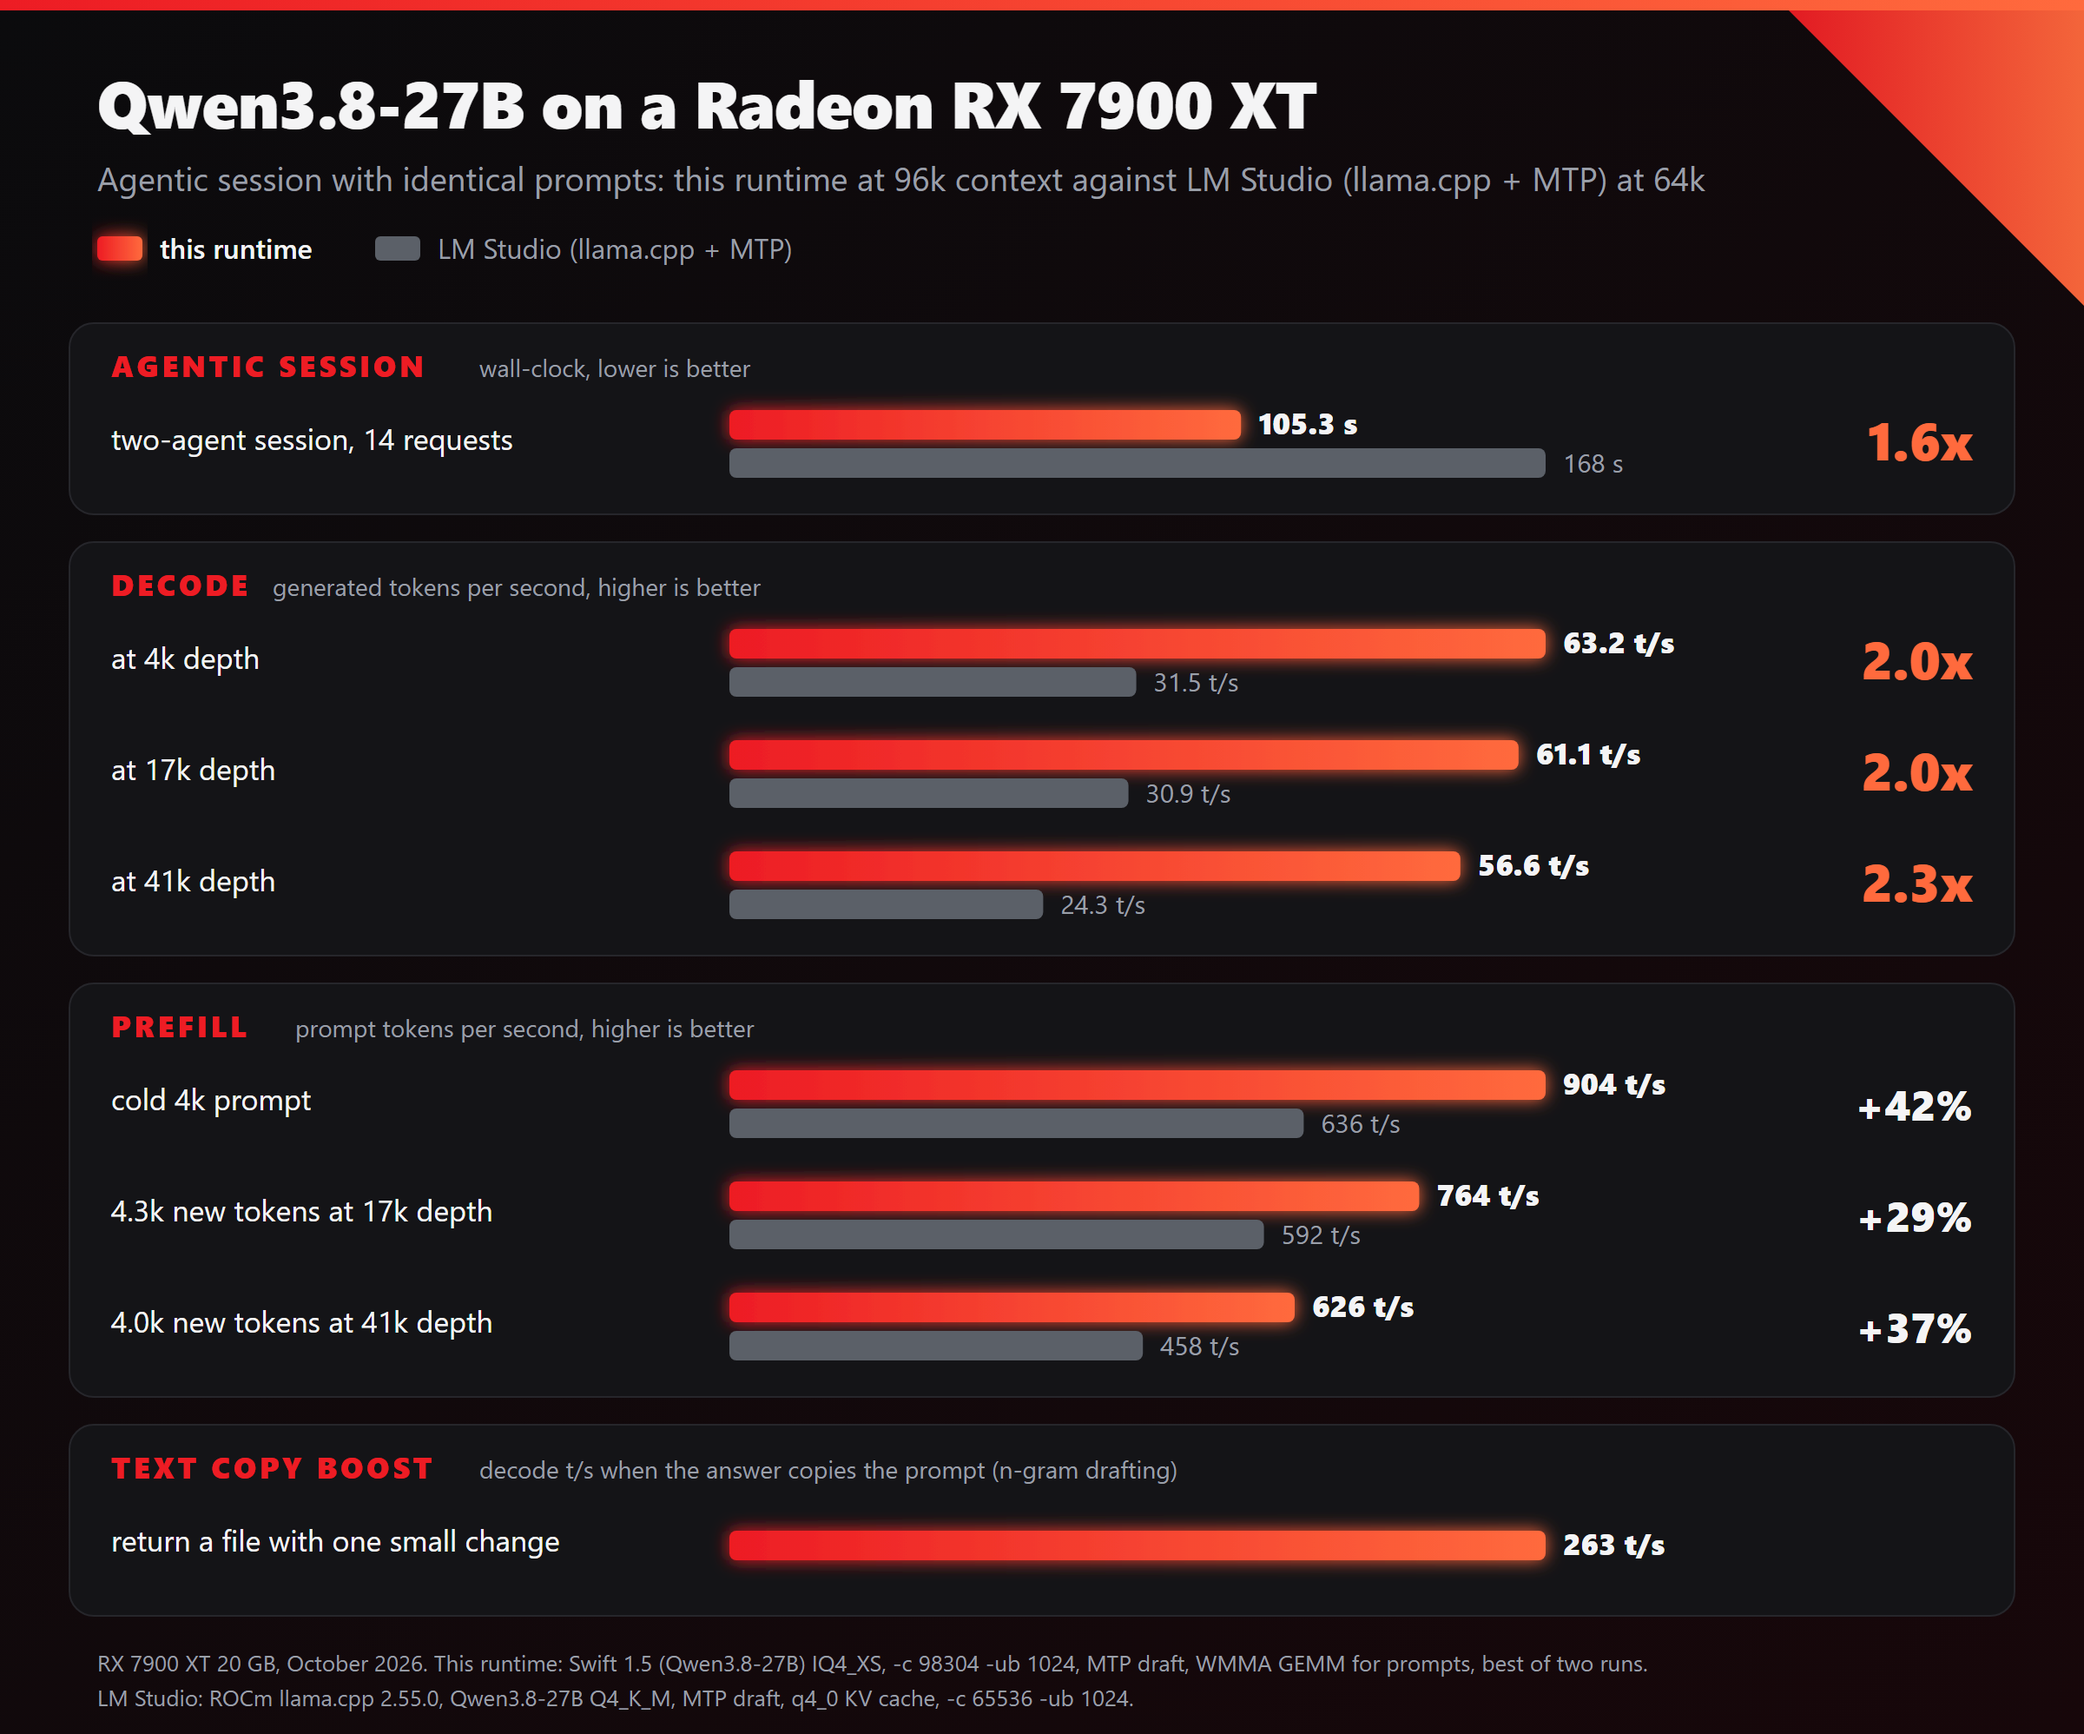
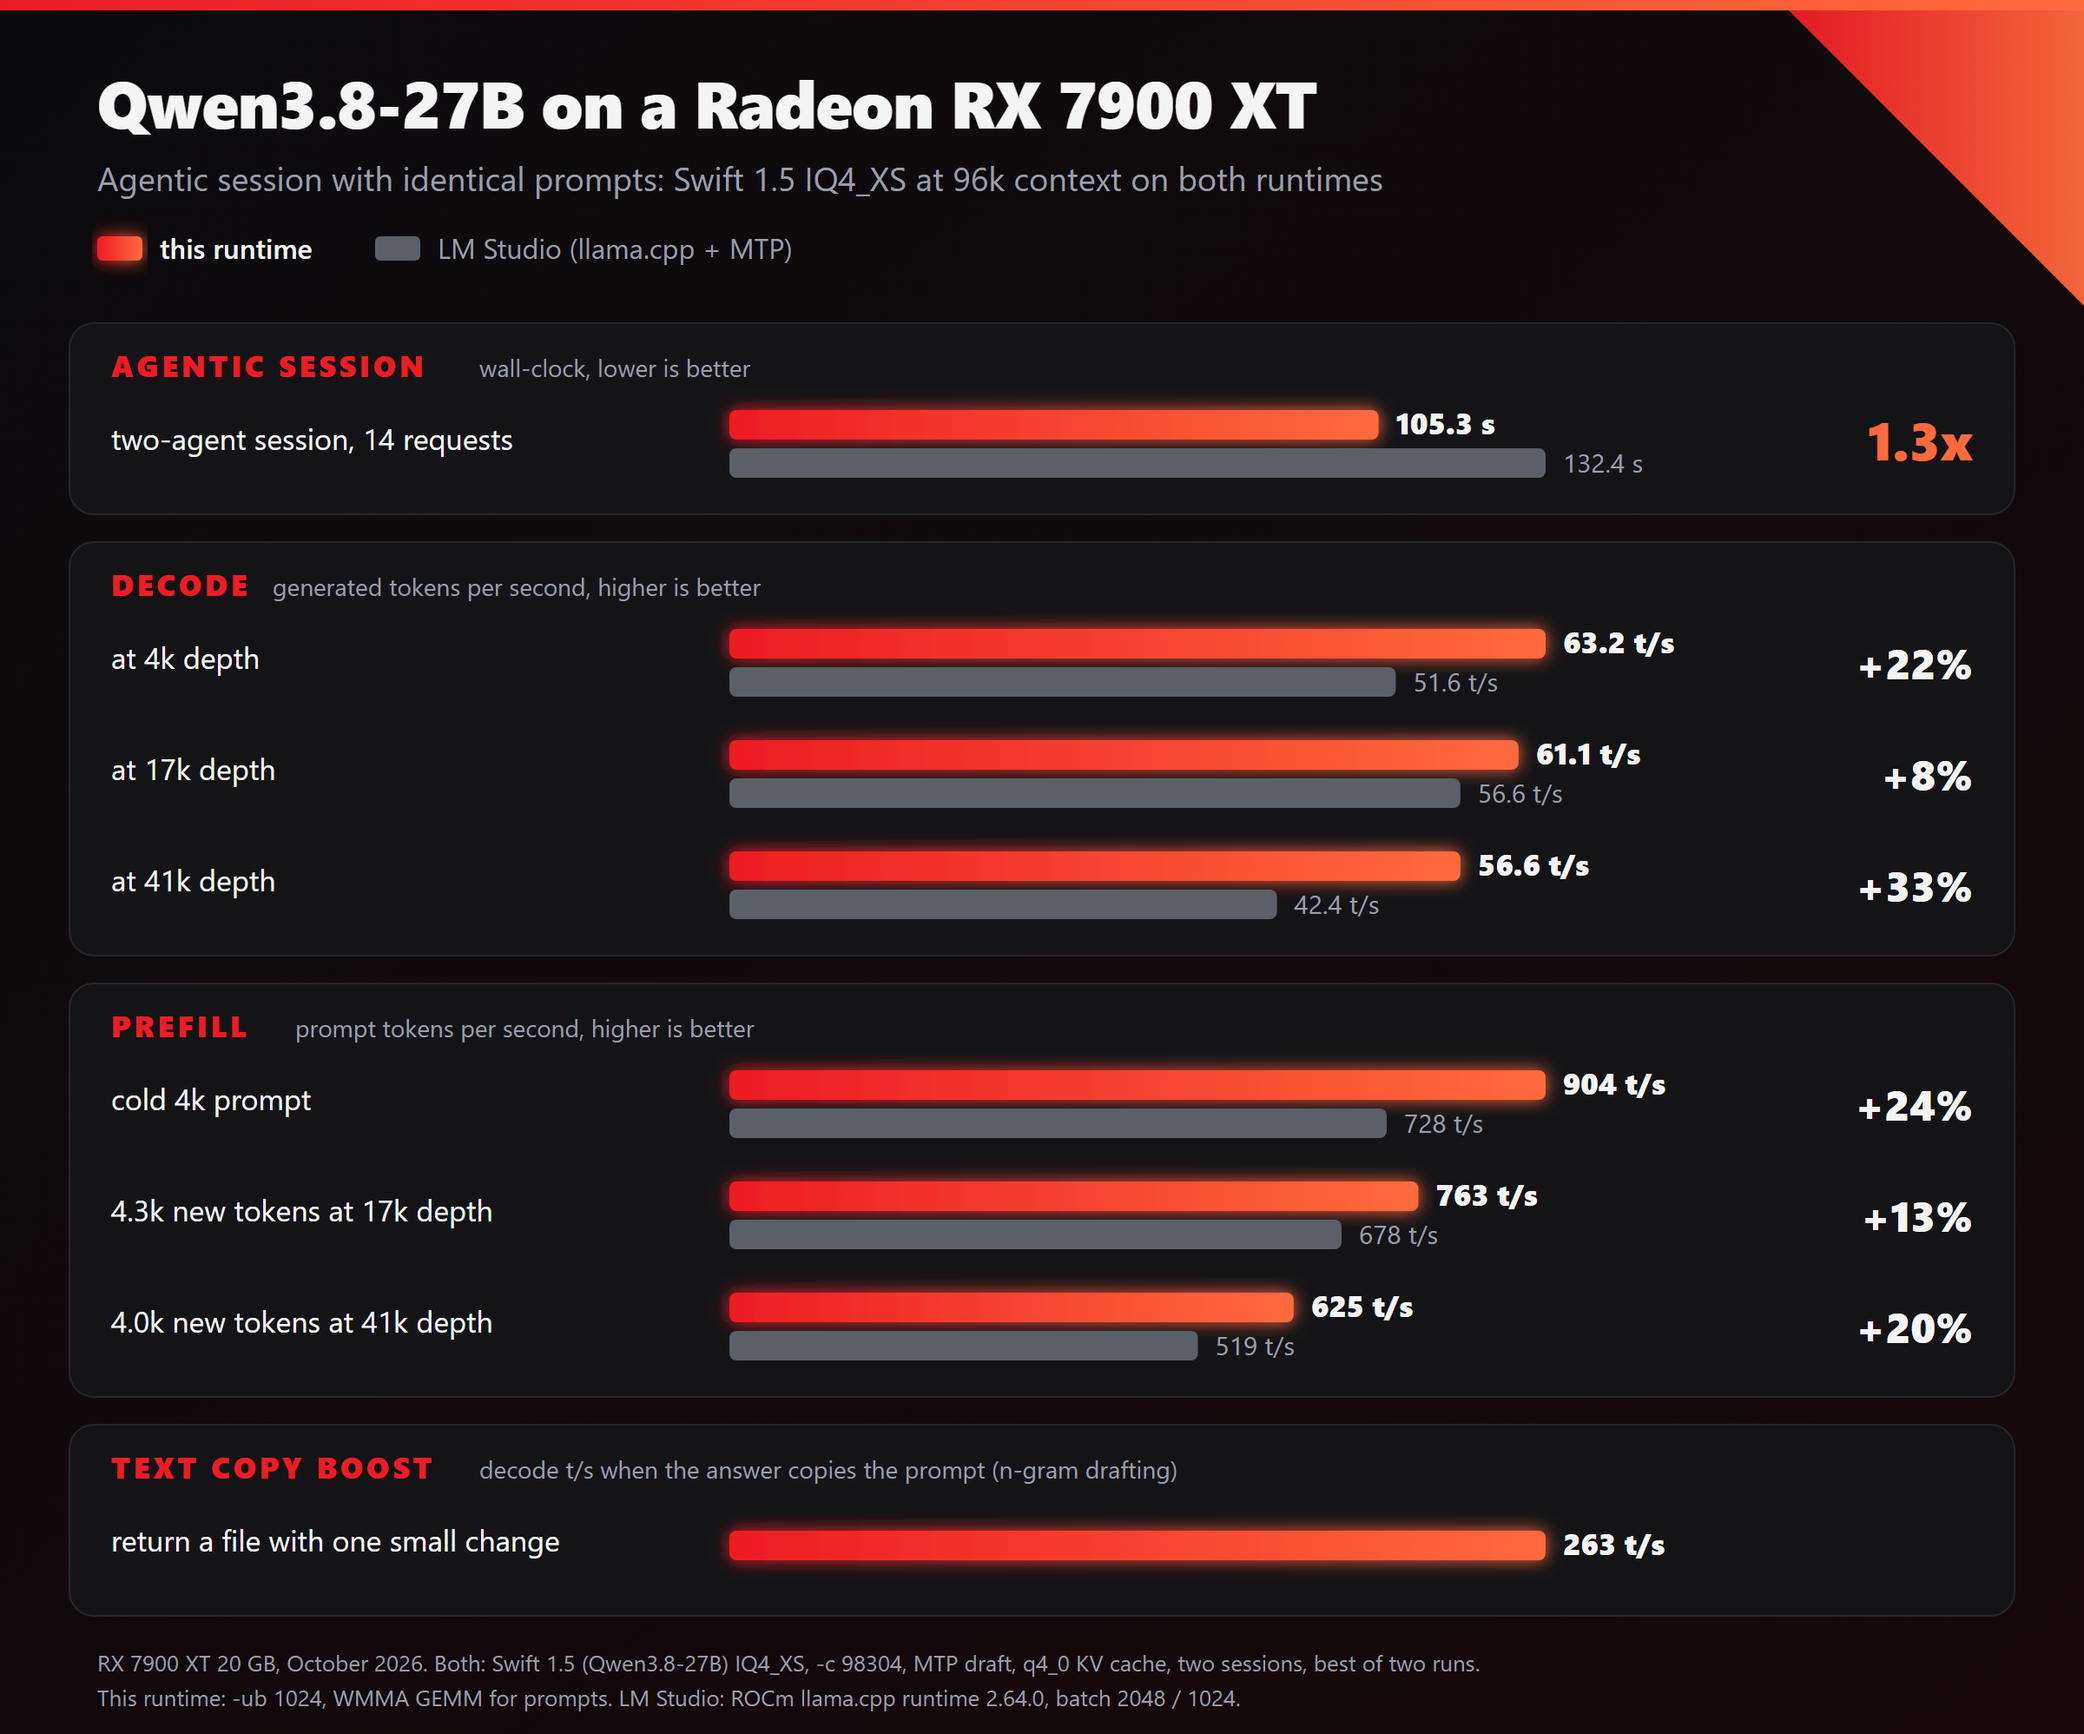
README: LM Studio comparison on the same model, quant and context; table of the four quants
LM Studio now runs what this runtime runs: Swift 1.5 IQ4_XS at 96k with MTP drafting (its ROCm runtime 2.64.0), the
better of two sessions each, prefill counted the same way for both: 132 s against 105 s for the scripted two-agent
session. The chart and the Speed table show these numbers; the October comparison against a different quant at 64k
is gone. A new table lists the session for each quant tested on both runtimes, Q4_K_M at 64k and -ub 512.

diff --git a/README.md b/README.md
@@ -11,9 +11,9 @@ FP4/FP6 weight formats) and [llama.cpp](https://github.com/ggml-org/llama.cpp).
 
 ## Highlights
 
-- **Faster agent loops than LM Studio on the same card.** A scripted two-agent
-  session finishes in 105 s instead of 168 s, with twice the decode speed.
-  [Numbers](#speed)
+- **Faster agent loops than LM Studio on the same card.** With the same model,
+  quant and context, a scripted two-agent session finishes in 105 s instead of
+  132 s. [Numbers](#speed)
 
 - **Multi-token prediction.** The model's own MTP head drafts tokens ahead: up
   to 54 t/s on prose and 88 t/s on code. When an answer repeats text from the
@@ -61,27 +61,44 @@ been measured on an XTX.
 
 ![Speed against LM Studio (llama.cpp + MTP) on an RX 7900 XT](media/speed-vs-lmstudio.svg)
 
-Against stock llama.cpp on the same card: one scripted two-agent session with
-identical prompts (14 requests; an orchestrator grows from 4k to 41k tokens, a
-10k-token worker is called twice in between):
+Against LM Studio on the same card, with the same model, quant and context: one
+scripted two-agent session with identical prompts (14 requests; an orchestrator
+grows from 4k to 41k tokens, a 10k-token worker is called twice in between):
 
-| | stock llama.cpp | stock + MTP draft | this runtime |
-|---|---:|---:|---:|
-| **the session, wall-clock** | **1,065 s** | **168 s** | **105 s** |
-| prefill t/s, cold 4k prompt | 174 | 636 | 904 |
-| prefill t/s, 4.3k new tokens at 17k depth | 67 | 592 | 764 |
-| prefill t/s, 4.0k new tokens at 41k depth | 32 | 458 | 626 |
-| decode t/s at 4k depth | 32.3 | 31.5 | 63.2 |
-| decode t/s at 17k depth | 17.8 | 30.9 | 61.1 |
-| decode t/s at 41k depth | 10.6 | 24.3 | 56.6 |
-| decode t/s, text copy boost: code edit that copies the prompt | | | 263 |
+| | LM Studio + MTP draft | this runtime |
+|---|---:|---:|
+| **the session, wall-clock** | **132 s** | **105 s** |
+| prefill t/s, cold 4k prompt | 728 | 904 |
+| prefill t/s, 4.3k new tokens at 17k depth | 678 | 763 |
+| prefill t/s, 4.0k new tokens at 41k depth | 519 | 625 |
+| decode t/s at 4k depth | 51.6 | 63.2 |
+| decode t/s at 17k depth | 56.6 | 61.1 |
+| decode t/s at 41k depth | 42.4 | 56.6 |
+| decode t/s, text copy boost: code edit that copies the prompt | | 263 |
 
-<sub>October 2026. Stock is LM Studio's ROCm llama.cpp runtime 2.55.0 with
-`Qwen3.8-27B-Q4_K_M`, flash attention, a q4_0 KV cache, two sessions,
-`-c 65536` and batch 2048 / 1024. This runtime runs Swift 1.5 IQ4_XS with the
-quick start below (`-c 98304 -ub 1024`), the better of two runs for each value.
-The edit row is the text copy boost, n-gram drafting, the best of three edits;
-it was not measured on LM Studio.</sub>
+<sub>October 2026. Both run Swift 1.5 IQ4_XS at `-c 98304` with MTP drafting,
+flash attention, a q4_0 KV cache and two sessions, the better of two runs for
+each value. LM Studio is its ROCm llama.cpp runtime 2.64.0 with batch
+2048 / 1024; this runtime runs the quick start below (`-ub 1024`). The edit row
+is the text copy boost, n-gram drafting, the best of three edits; LM Studio
+cannot run it, as its API does not switch Swift 1.5's thinking off.</sub>
+
+The same session with each quant we tested:
+
+| quant | size | session, this runtime | session, LM Studio | prefill t/s at 4k / 17k / 41k | decode t/s at 4k / 17k / 41k | code edit t/s |
+|---|---:|---:|---:|---:|---:|---:|
+| [Q4_K_M](https://huggingface.co/ukisai/Swift-1.5-Qwen3.8-27B-GGUF/blob/main/Swift-1.5-Qwen3.8-27B-Q4_K_M.gguf)\* | 17.4 GB | 146.8 s | 1,211 s (spill) | 408 / 548 / 431 | 50.6 / 50.8 / 48.2 | 238 |
+| [Q4_K_S](https://huggingface.co/ukisai/Swift-1.5-Qwen3.8-27B-GGUF/blob/main/Swift-1.5-Qwen3.8-27B-Q4_K_S.gguf) | 16.4 GB | 112.6 s | 1,139 s (spill) | 889 / 769 / 616 | 49.2 / 51.7 / 48.8 | 247 |
+| [IQ4_XS](https://huggingface.co/ukisai/Swift-1.5-Qwen3.8-27B-GGUF/blob/main/Swift-1.5-Qwen3.8-27B-IQ4_XS.gguf) | 15.5 GB | 105.3 s | 132.4 s | 904 / 763 / 625 | 63.2 / 61.1 / 56.6 | 263 |
+| [ROCmFP4-FP6](docs/rocmfpx/swift-1.5-qwen3.8-27b-rocmfp4-fp6.md) | 16.1 GB | 104.5 s | | 923 / 798 / 634 | 60.2 / 56.4 / 58.5 | 243 |
+
+<sub>\* At 64k (`-c 65536`) and `-ub 512`: the smaller context and prompt batches
+keep Q4_K_M's spill into system RAM down while staying above Hermes'
+64,000-token minimum. The other quants run at 96k with `-ub 1024`. Prefill and
+decode are this runtime's, in the session above; the better of two runs
+(Q4_K_M: one). LM Studio's Q4_K_S and Q4_K_M sit at the edge of the card's
+memory and read every prompt again in full. ROCmFP4-FP6 is a ROCmFPX format,
+which LM Studio does not load.</sub>
 
 Decode, 450-token answers at temperature 1, the best of nine:
 
